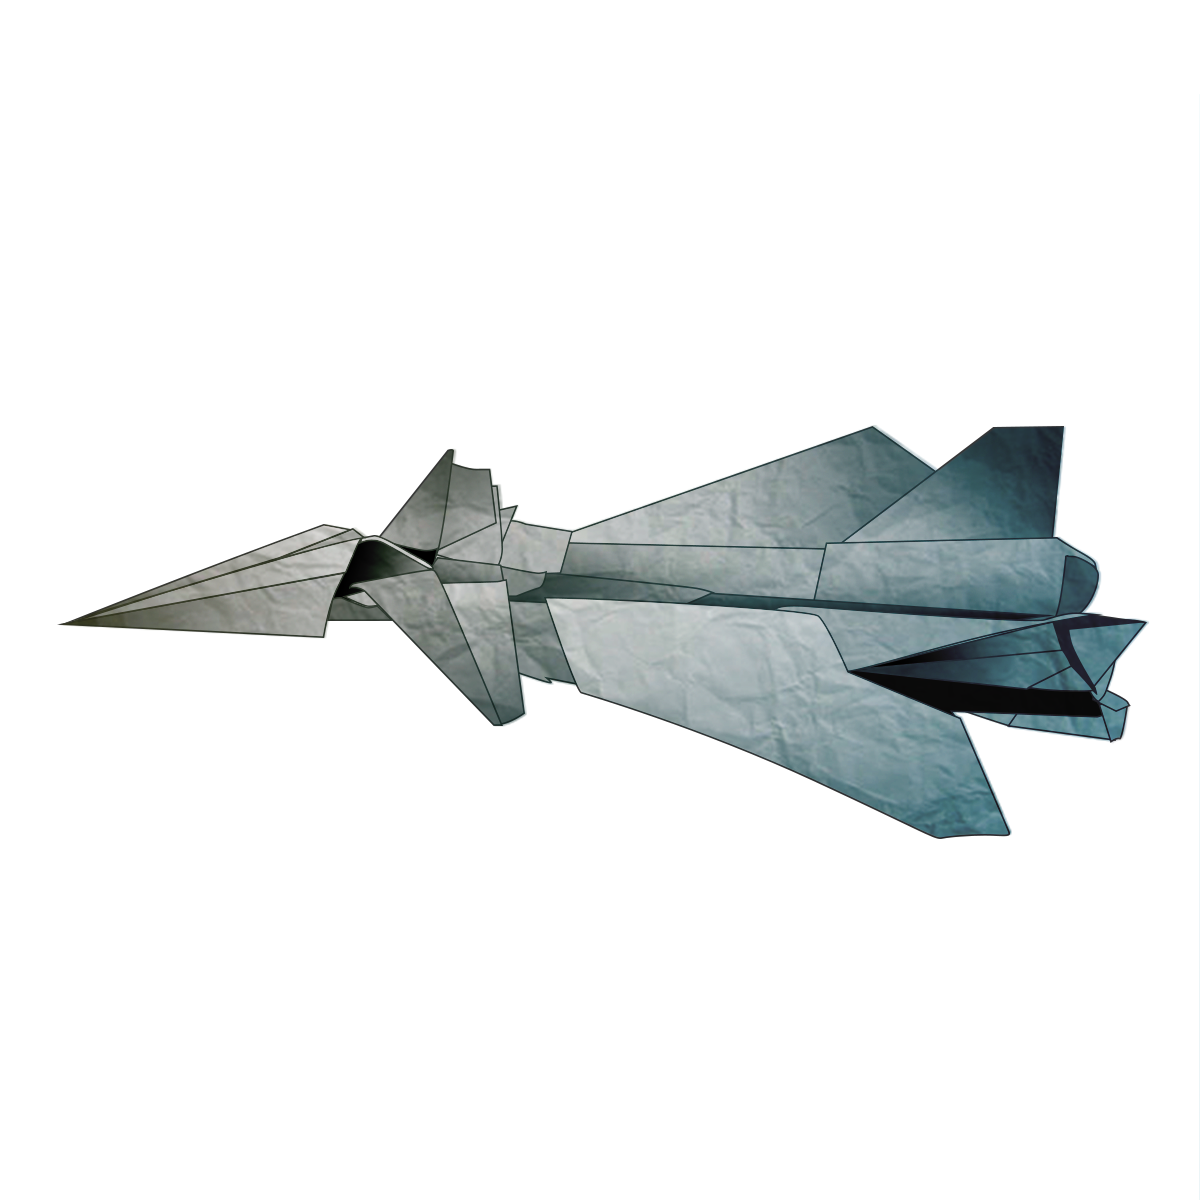
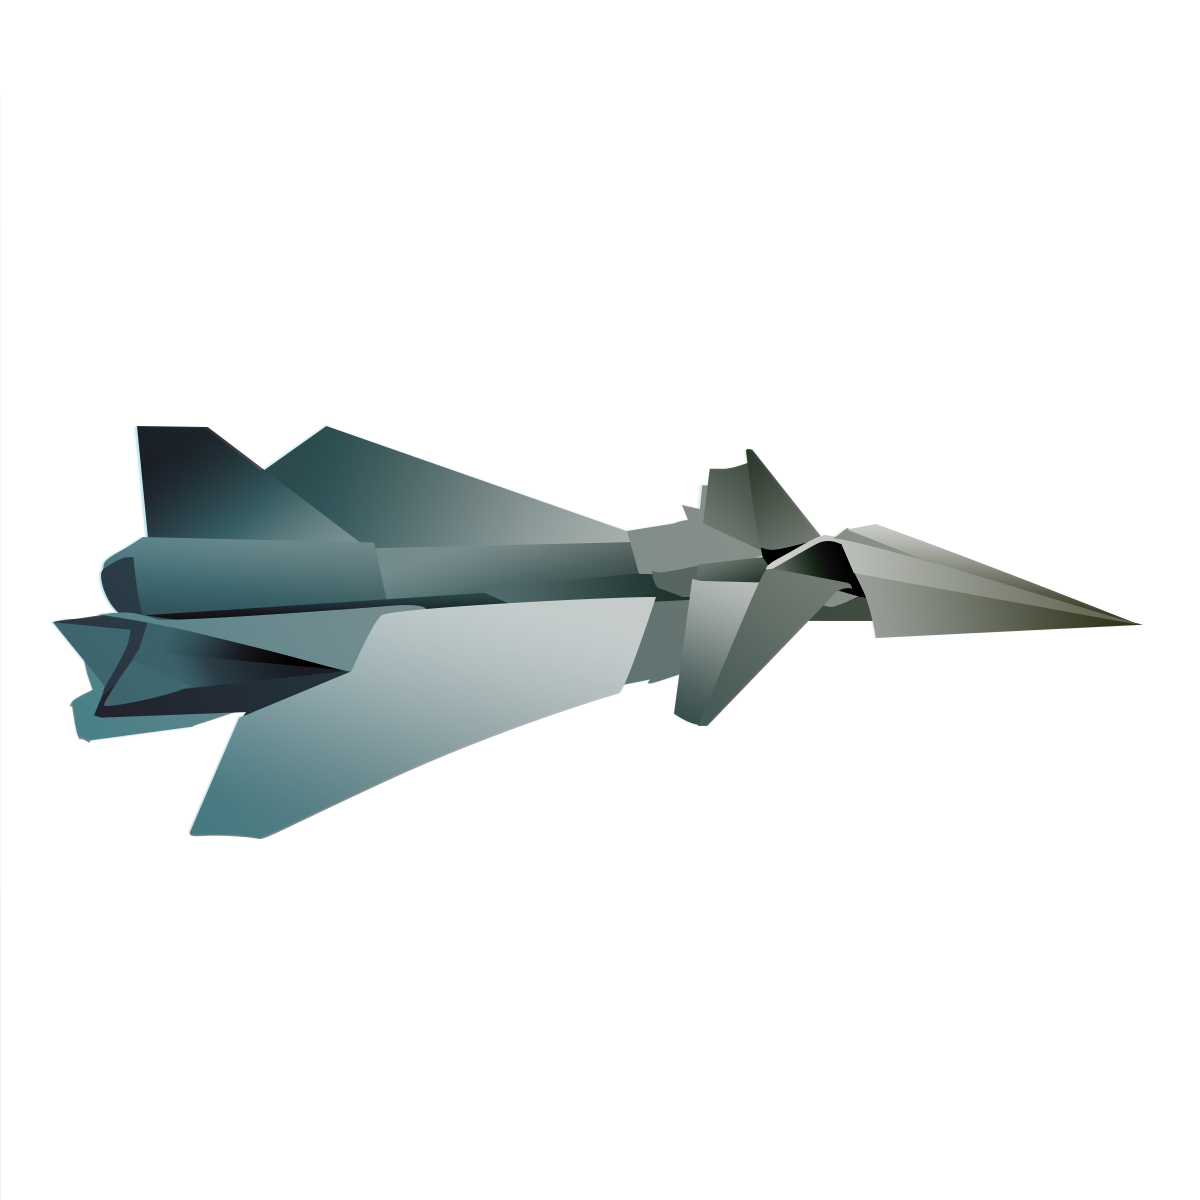
heading rotation fix

Changed region(s): [[0.0308, 0.3392, 0.9558, 0.7092]]

diff --git a/public/javascripts/main.js b/public/javascripts/main.js
@@ -135,8 +135,8 @@ function particles() {
     emitter.addInitialize(new Proton.Velocity(1, Proton.getSpan(125, 135), 'polar'));
     //add Behaviour
 
-    emitter.addInitialize(new Proton.ImageTarget(resources.get('/images/fireball.png')));
-    //emitter.addBehaviour(new Proton.Color('ff0000', 'random'));
+    //emitter.addInitialize(new Proton.ImageTarget(resources.get('/images/fireball.png')));
+    emitter.addBehaviour(new Proton.Color('ff0000', 'random'));
     emitter.addBehaviour(new Proton.Alpha(0.9, 0));
     //set emitter position
     emitter.p.x = canvas.width / 2;
@@ -183,7 +183,7 @@ function init() {
 
             //console.log (x + " " + y);
             context.translate(x,y);            
-            context.rotate(-adjustedHeadingInDegrees*Math.PI/180);
+            context.rotate(adjustedHeadingInDegrees*Math.PI/180);
             context.translate(-x,-y);            
 
             if (type == 1) {
